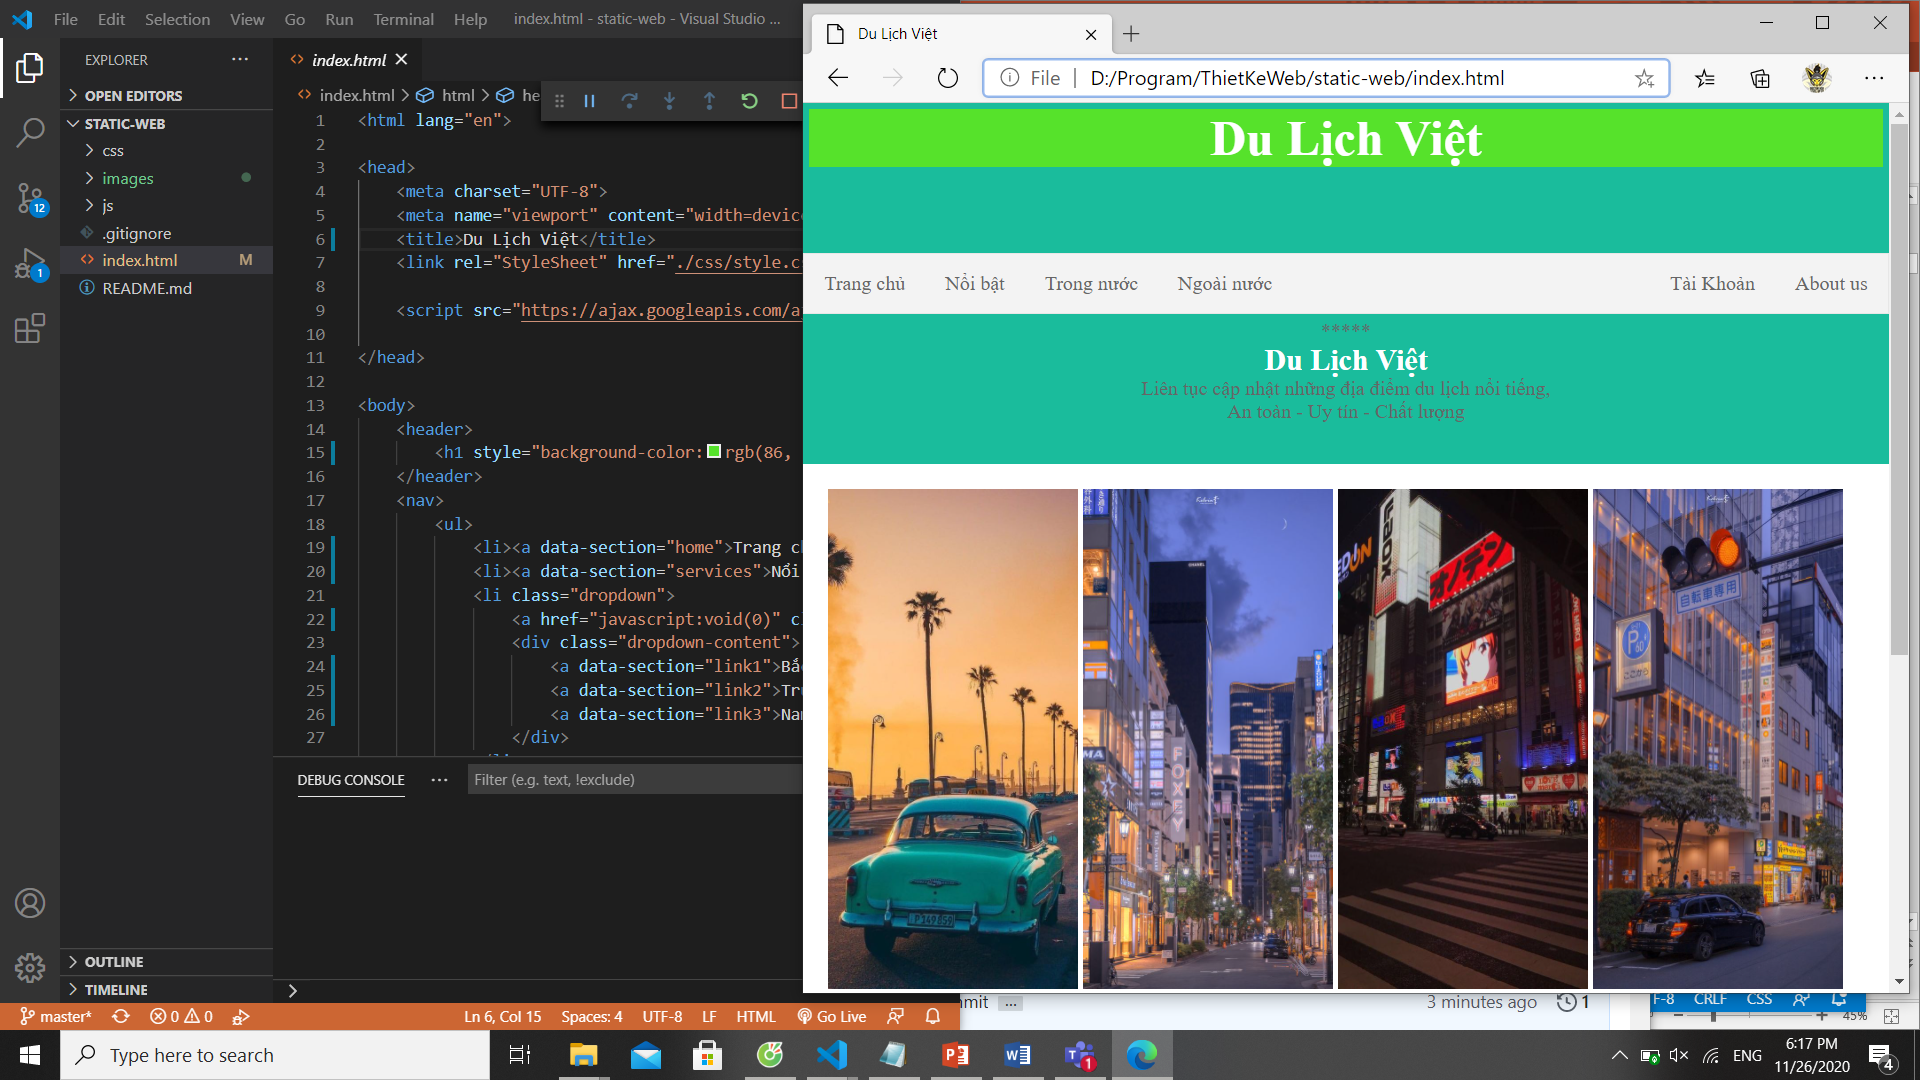
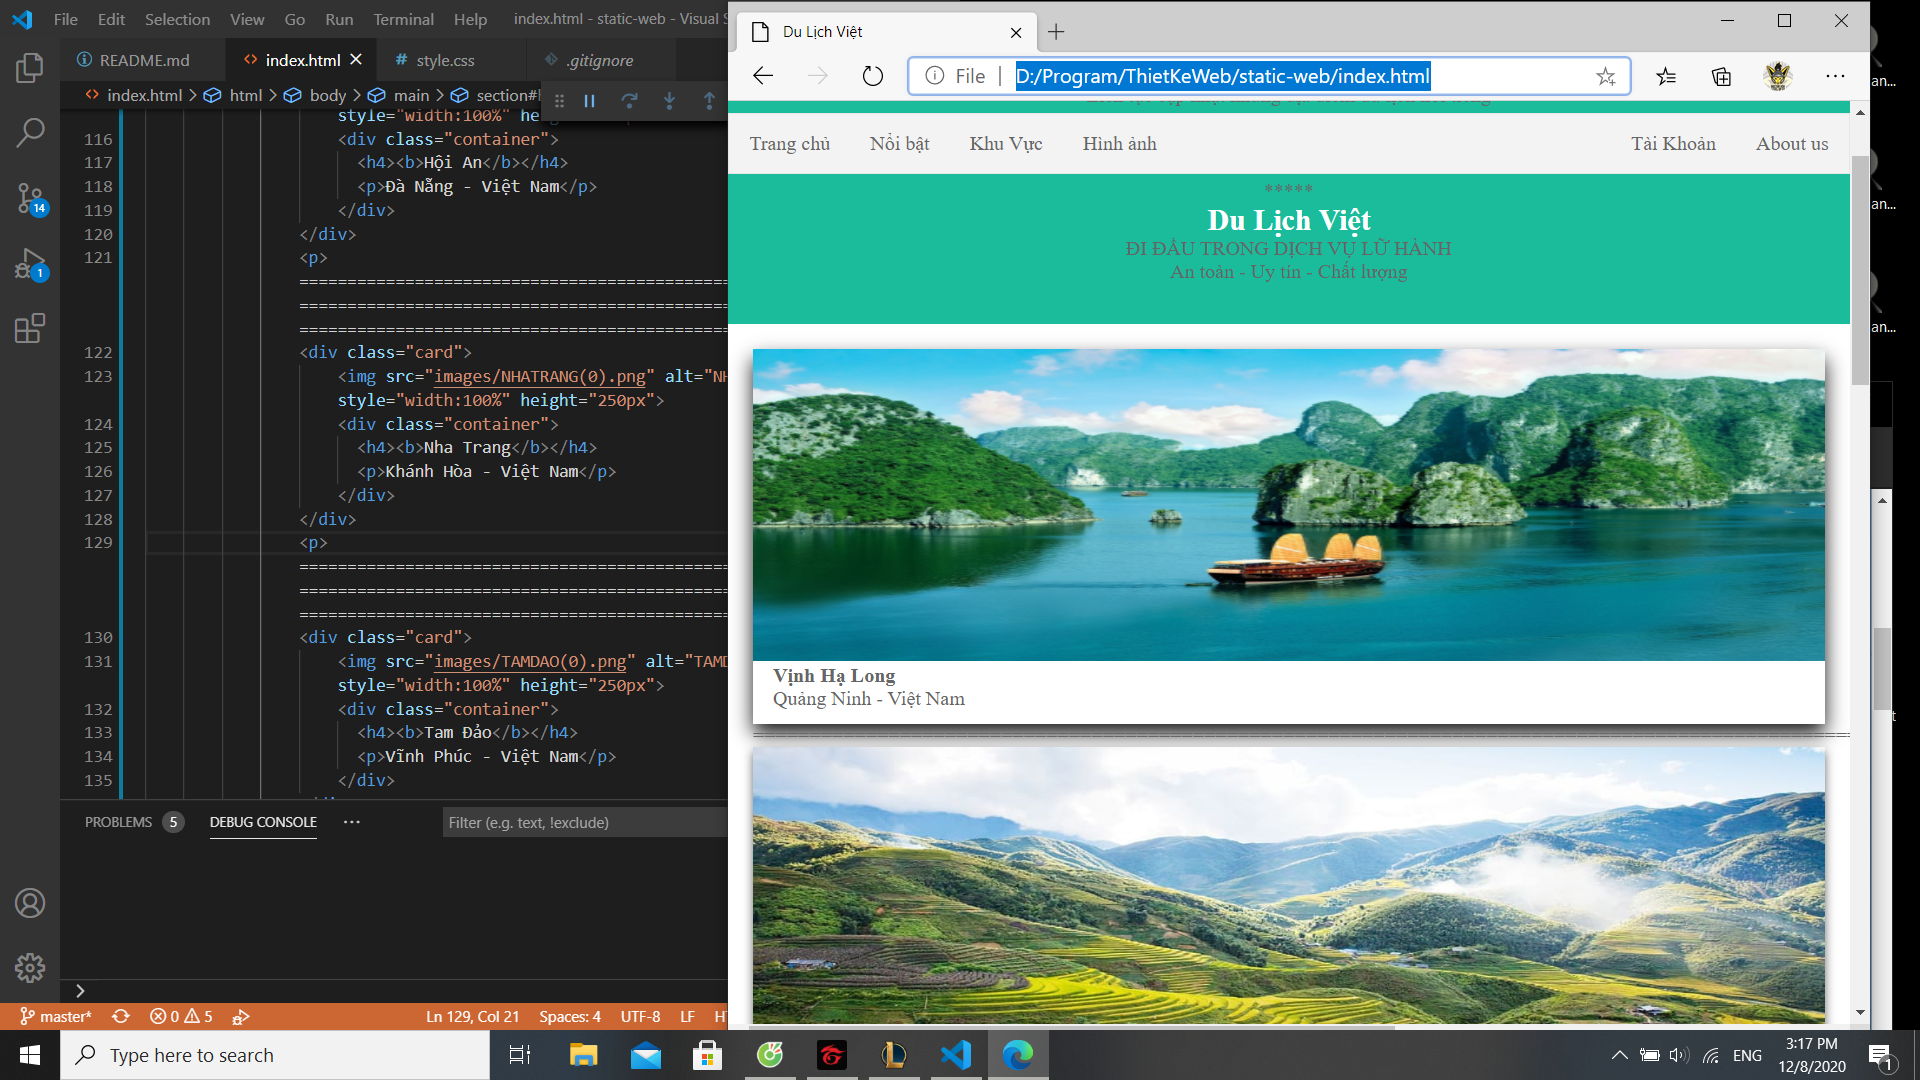
Update README.md

diff --git a/css/style.css b/css/style.css
@@ -106,3 +106,21 @@ li.dropdown {
       width: 100%;
     }
   } 
+
+.card {
+/* Add shadows to create the "card" effect */
+    box-shadow: 0 4px 8px 0 rgba(0,0,0,0.6);
+    transition: 0.3s;
+    width: 100%;
+    height: 300px;
+}
+  
+/* On mouse-over, add a deeper shadow */
+.card:hover {
+    box-shadow: 0 8px 16px 0 rgba(0,0,0,0.9);
+}
+  
+/* Add some padding inside the card container */
+.container {
+    padding: 2px 16px;
+}  
